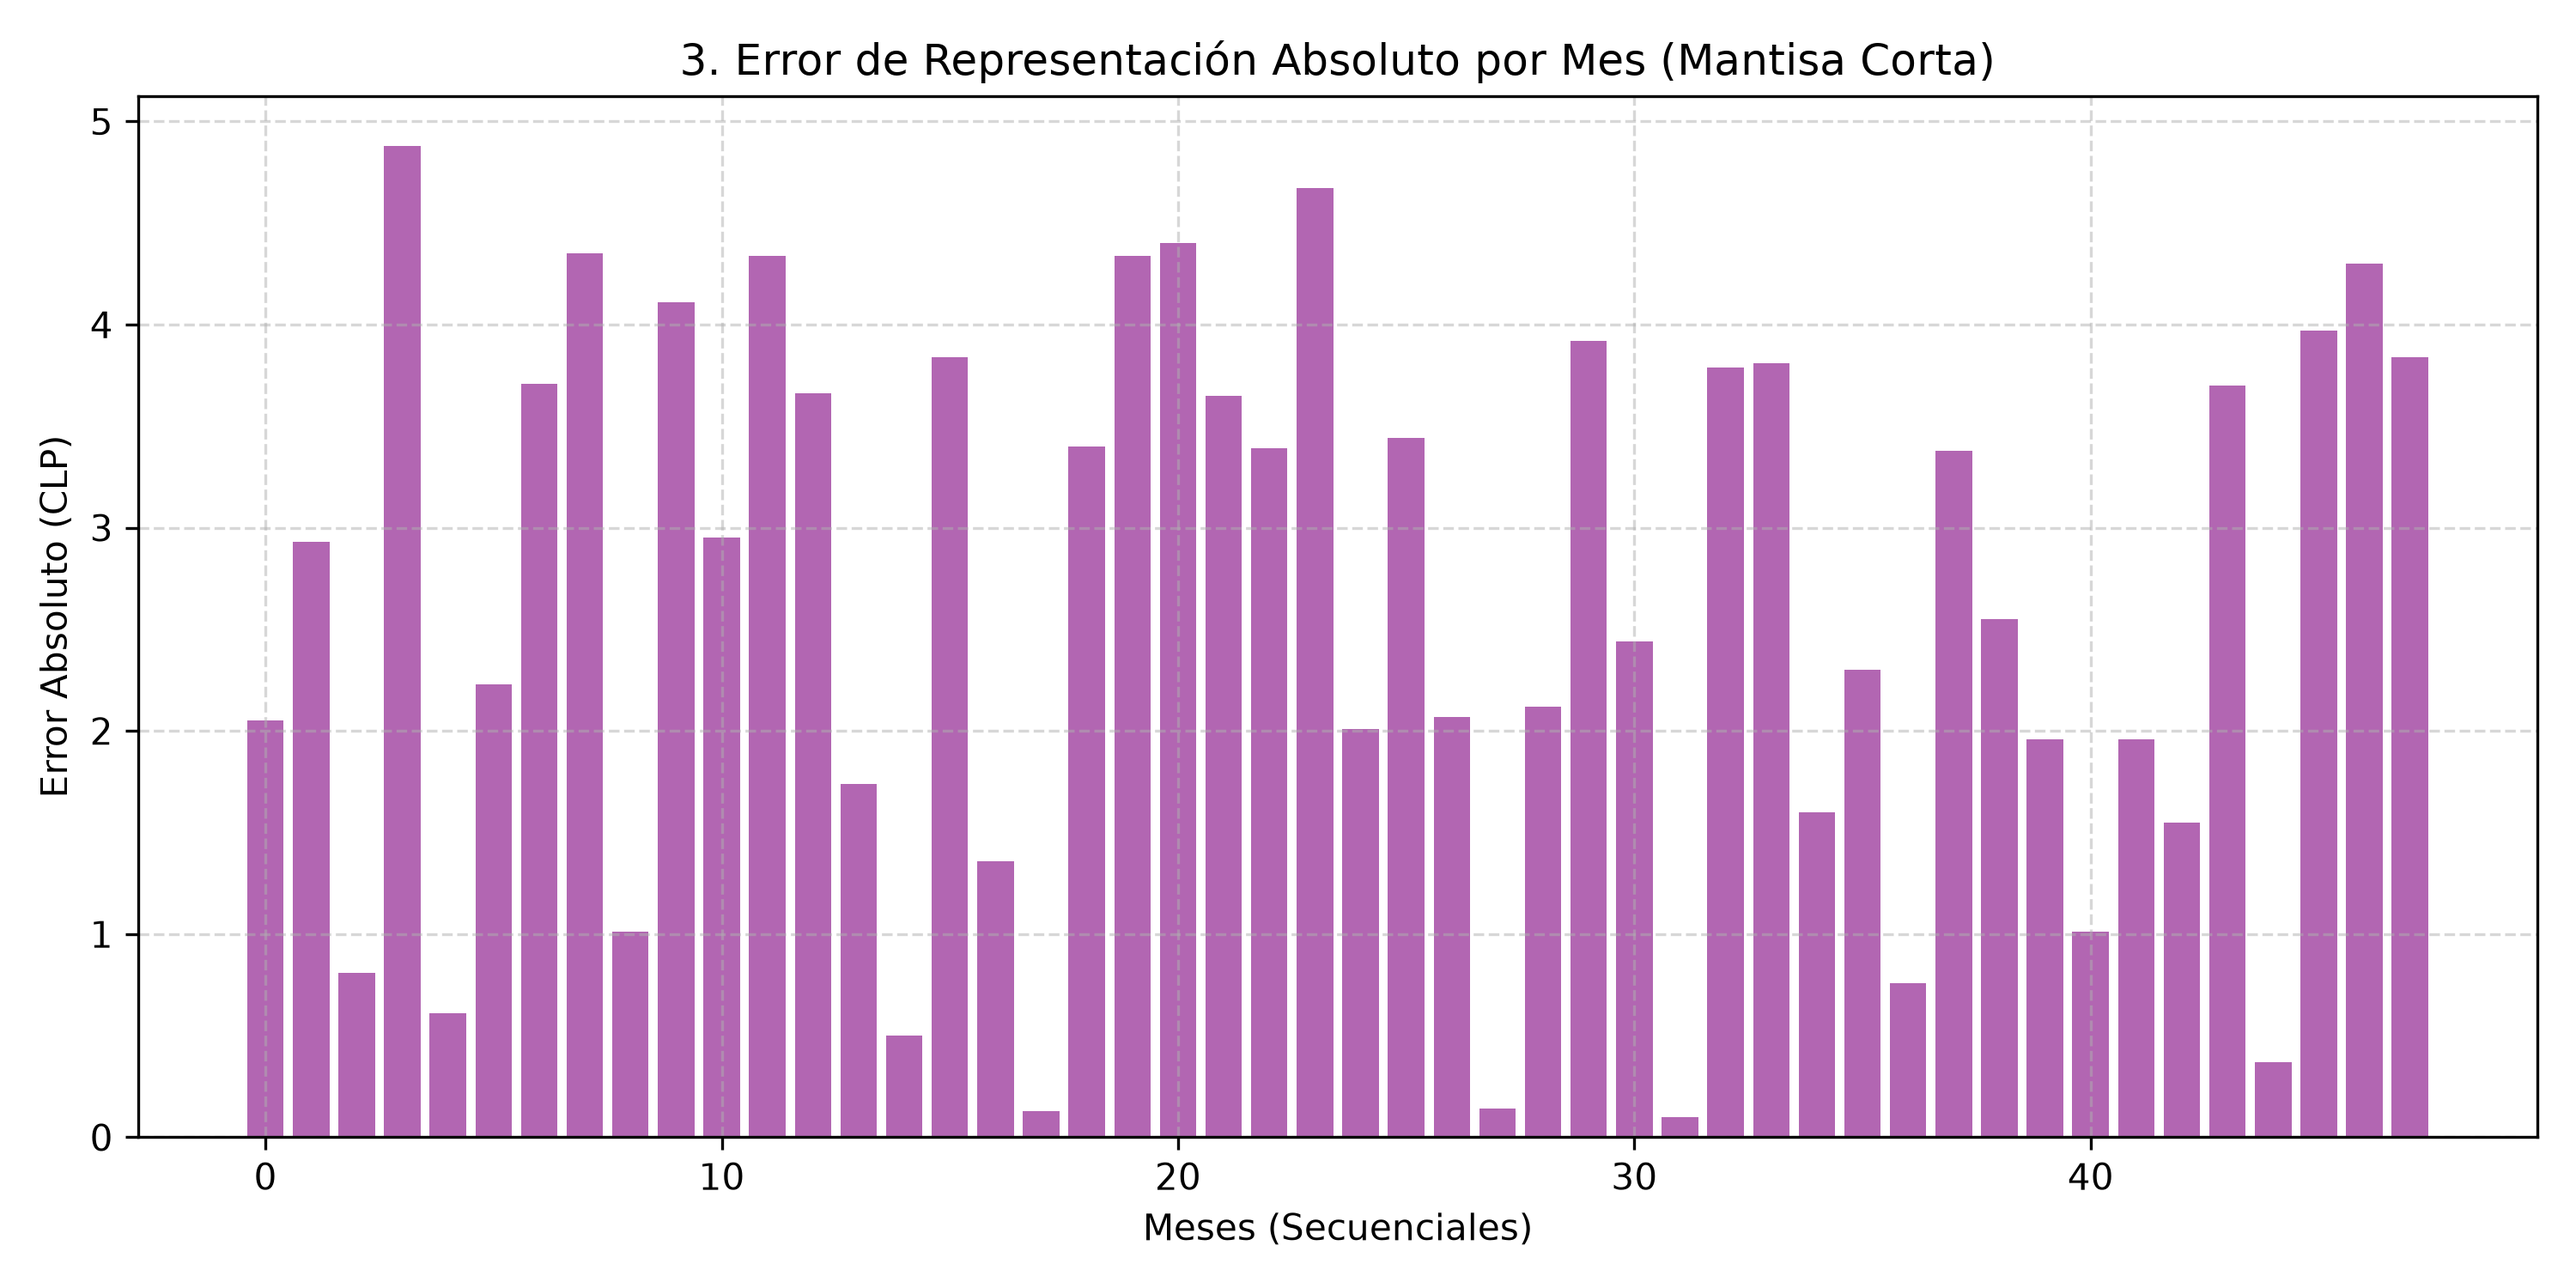
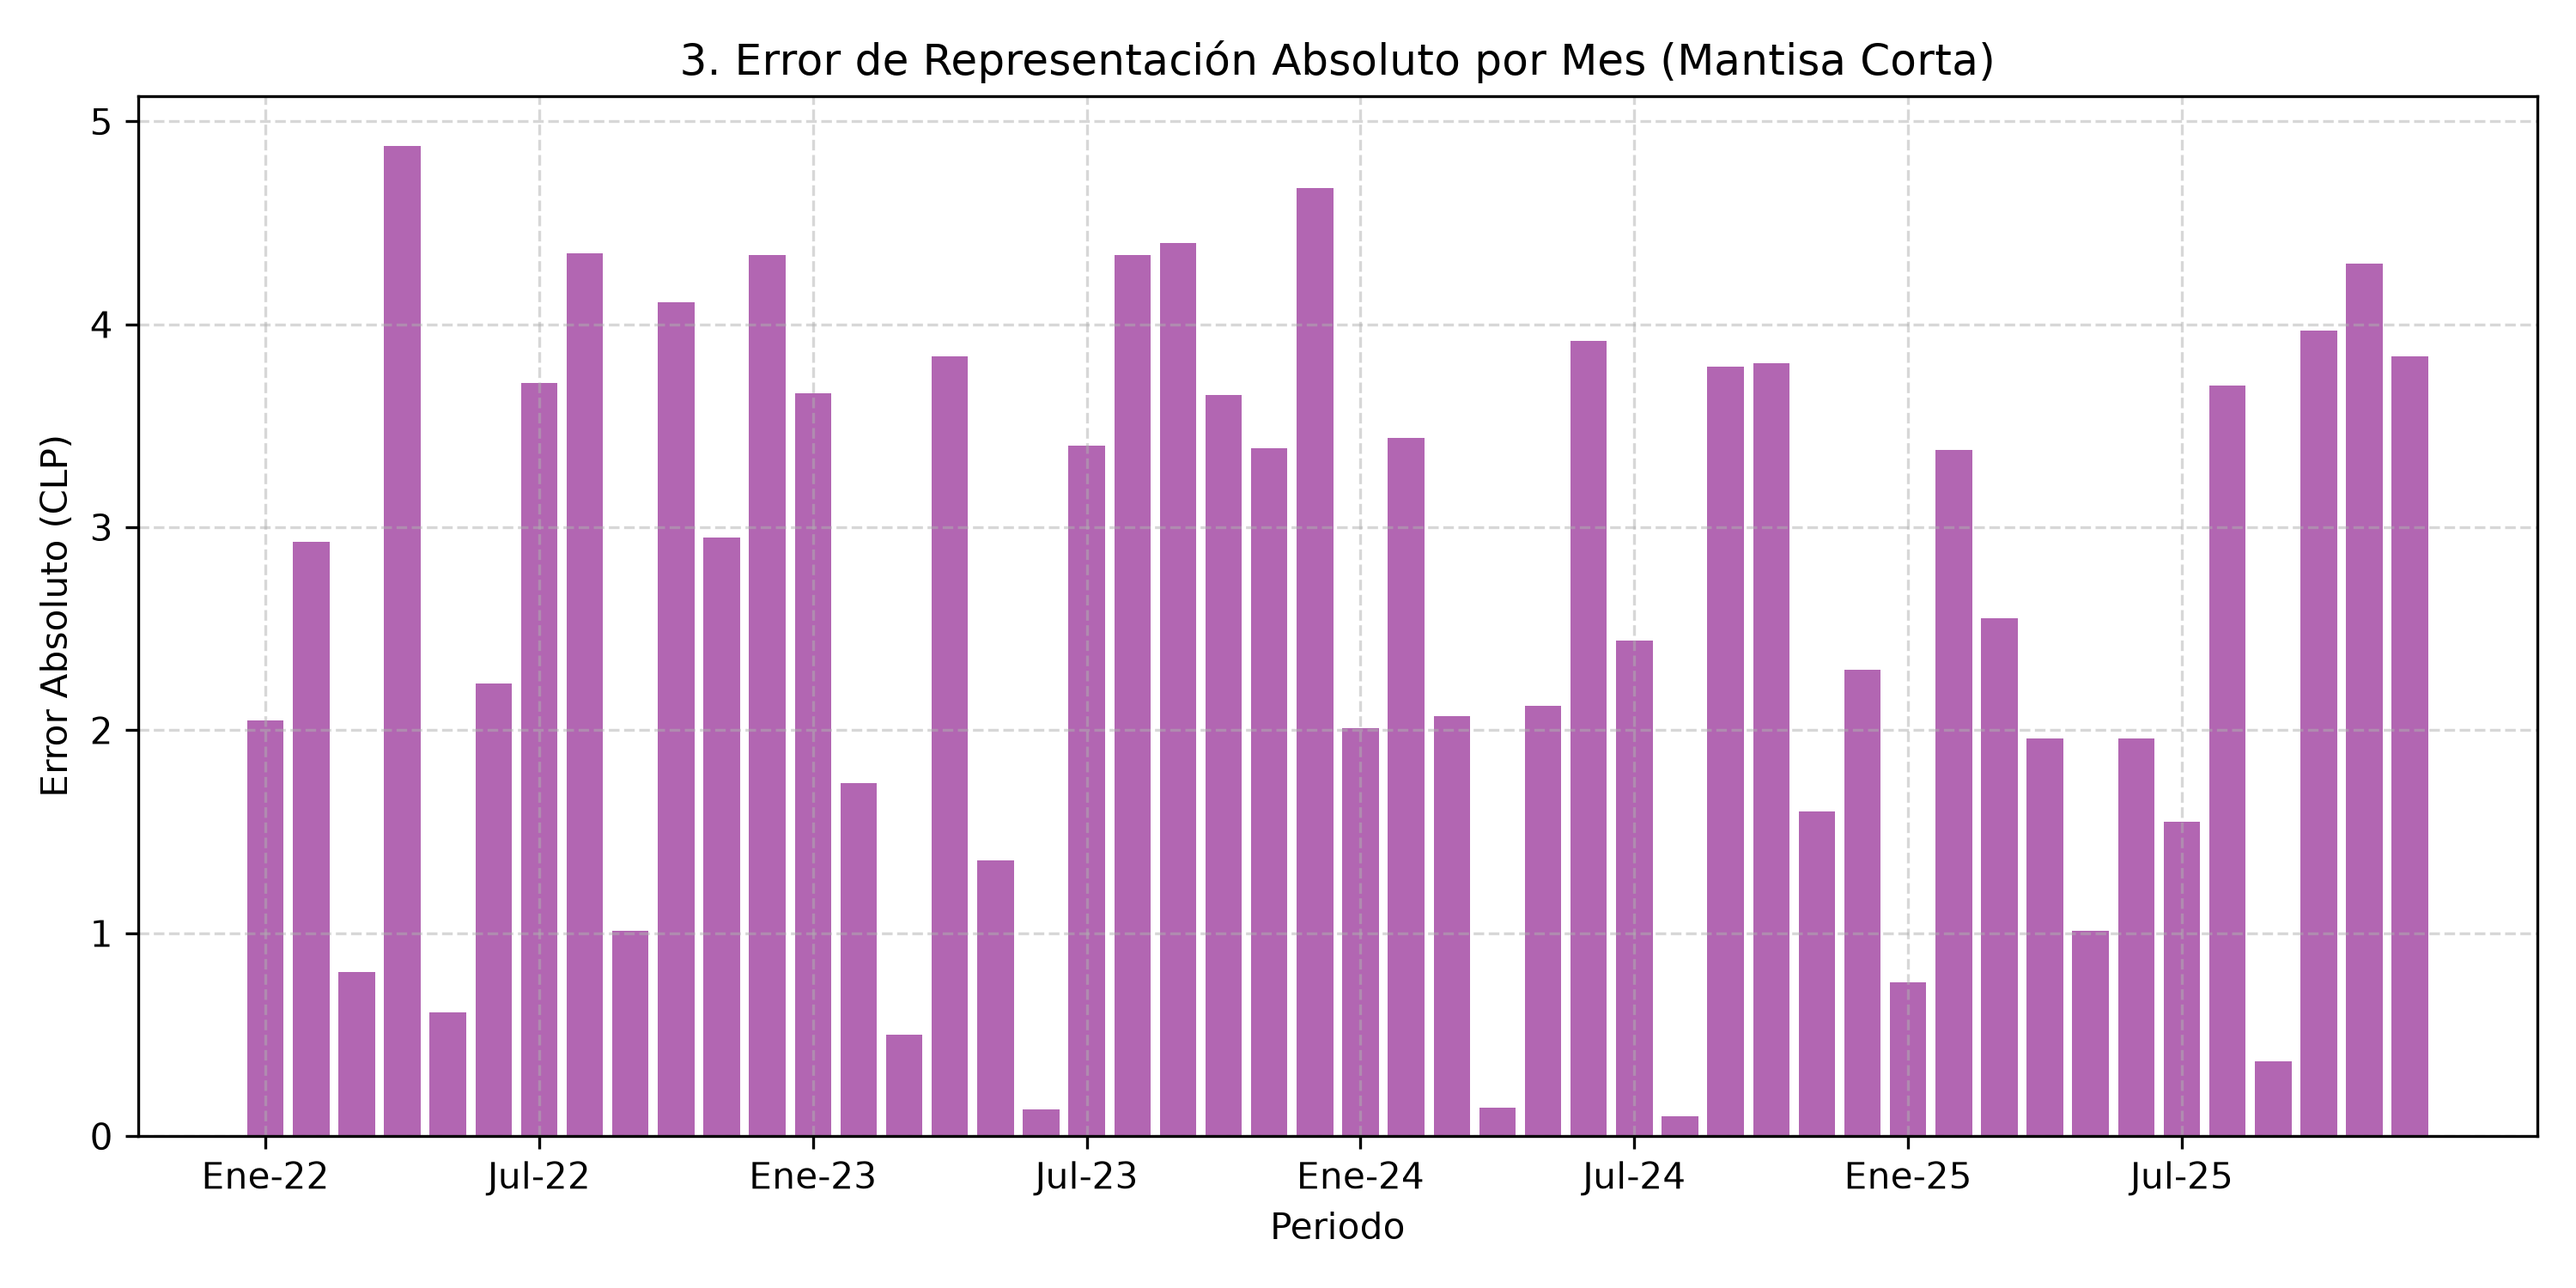
Mejorar graficos y resaltar zona de cancelacion en variacion mensual

diff --git a/src/graficos.py b/src/graficos.py
@@ -1,36 +1,59 @@
+import os
+import sys
 import numpy as np
 import matplotlib.pyplot as plt
+
+sys.path.append(os.path.dirname(os.path.abspath(__file__)))
 from cargar_datos import obtener_datos_sii
 from errores import redondear_dos_cifras
 from punto_flotante import ejercicio_b2_ida_vuelta
+
+ruta_base = os.path.dirname(os.path.dirname(os.path.abspath(__file__)))
+carpeta_graficos = os.path.join(ruta_base, "graficos")
+os.makedirs(carpeta_graficos, exist_ok=True)
 
 anios, nombres_meses, precios = obtener_datos_sii()
 n_total = len(precios)
 eje_temporal = np.arange(n_total)
 
+# Etiquetas de tiempo para los graficos
+etiquetas_tiempo = [f"{nombres_meses[i][:3]}-{str(anios[i])[2:]}" for i in range(n_total)]
+ticks_pos = np.arange(0, n_total, 6)
+ticks_labels = [etiquetas_tiempo[i] for i in ticks_pos]
+
 # GRÁFICO 1: Serie mensual del dólar observado (2022-2025)
 plt.figure(figsize=(10, 5))
 plt.plot(eje_temporal, precios, marker='o', color='b', linestyle='-', linewidth=1.5, markersize=3)
 plt.title('1. Serie Mensual del Dólar Observado (2022-2025)')
-plt.xlabel('Meses (Secuenciales)')
+plt.xlabel('Periodo')
 plt.ylabel('Precio (CLP)')
+plt.xticks(ticks_pos, ticks_labels)
 plt.grid(True, linestyle='--', alpha=0.6)
 plt.tight_layout()
-plt.savefig('graficos/serie_mensual.png', dpi=300)
+plt.savefig(os.path.join(carpeta_graficos, 'serie_mensual.png'), dpi=300)
 plt.close()
 
-# GRÁFICO 2: Variación mes a mes en barras
+# GRÁFICO 2: Variación mes a mes en barras (evidencia de cancelacion)
 delta_mensual = np.diff(precios) # Resta entre mes t+1 y mes t
+precios_aprox = redondear_dos_cifras(precios)
+ea_individual = np.abs(precios - precios_aprox)
+ea_propagado_mensual = ea_individual[:-1] + ea_individual[1:]
+
+# Detectar donde el error domina la variacion (cancelacion)
+es_cancelacion = np.abs(delta_mensual) <= ea_propagado_mensual
+
 plt.figure(figsize=(10, 5))
-colores = np.where(delta_mensual >= 0, 'g', 'r')
-plt.bar(eje_temporal[1:], delta_mensual, color=colores, alpha=0.7)
+colores = np.where(es_cancelacion, 'orange', np.where(delta_mensual >= 0, 'g', 'r'))
+plt.bar(eje_temporal[1:], delta_mensual, color=colores, alpha=0.7, label='Variación ΔP')
+# Linea de umbral promedio de error propagado
 plt.axhline(0, color='black', linewidth=0.8, linestyle='--')
-plt.title('2. Variación Mes a Mes (ΔP) - Evidencia de Cancelación')
-plt.xlabel('Meses (Secuenciales)')
+plt.title('2. Variación Mes a Mes (ΔP) - Naranja: Zona de Cancelación (|ΔP| ≤ Error Propagado)')
+plt.xlabel('Periodo')
 plt.ylabel('ΔP (CLP)')
+plt.xticks(ticks_pos, ticks_labels)
 plt.grid(True, linestyle='--', alpha=0.5)
 plt.tight_layout()
-plt.savefig('graficos/variacion_mes_a_mes.png', dpi=300)
+plt.savefig(os.path.join(carpeta_graficos, 'variacion_mes_a_mes.png'), dpi=300)
 plt.close()
 
 
@@ -40,11 +63,12 @@ error_absoluto = np.abs(precios - precios_aprox)
 plt.figure(figsize=(10, 5))
 plt.bar(eje_temporal, error_absoluto, color='purple', alpha=0.6)
 plt.title('3. Error de Representación Absoluto por Mes (Mantisa Corta)')
-plt.xlabel('Meses (Secuenciales)')
+plt.xlabel('Periodo')
 plt.ylabel('Error Absoluto (CLP)')
+plt.xticks(ticks_pos, ticks_labels)
 plt.grid(True, linestyle='--', alpha=0.5)
 plt.tight_layout()
-plt.savefig('graficos/error_representacion.png', dpi=300)
+plt.savefig(os.path.join(carpeta_graficos, 'error_representacion.png'), dpi=300)
 plt.close()
 
 # GRÁFICO 4: Rentabilidad comprando en el mínimo histórico
@@ -74,11 +98,12 @@ plt.figure(figsize=(10, 5))
 plt.errorbar(eje_temporal, rentabilidades, yerr=errores_rentabilidad, fmt='-o', color='teal', ecolor='salmon', elinewidth=1, capsize=2, markersize=3)
 plt.axhline(0, color='black', linestyle='--', linewidth=0.8)
 plt.title('4. Rentabilidad Comprando en el Mínimo Global (con Error Propagado)')
-plt.xlabel('Meses (Secuenciales)')
+plt.xlabel('Periodo')
 plt.ylabel('Rentabilidad (%)')
+plt.xticks(ticks_pos, ticks_labels)
 plt.grid(True, linestyle='--', alpha=0.5)
 plt.tight_layout()
-plt.savefig('graficos/rentabilidad_minimo.png', dpi=300)
+plt.savefig(os.path.join(carpeta_graficos, 'rentabilidad_minimo.png'), dpi=300)
 plt.close()
 
 # GRÁFICO 5: Deriva de ida y vuelta (float32 vs float64)
@@ -102,10 +127,11 @@ plt.plot(
 )
 plt.axhline(0, color="black", linestyle="--", linewidth=0.8)
 plt.title("5. Deriva de Ida y Vuelta ($M = 1.000.000$ CLP)")
-plt.xlabel("Meses (Secuenciales)")
+plt.xlabel("Periodo")
 plt.ylabel("Deriva / Error residual (CLP)")
+plt.xticks(ticks_pos, ticks_labels)
 plt.legend()
 plt.grid(True, linestyle="--", alpha=0.6)
 plt.tight_layout()
-plt.savefig("graficos/deriva_ida_vuelta.png", dpi=300)
+plt.savefig(os.path.join(carpeta_graficos, "deriva_ida_vuelta.png"), dpi=300)
 plt.close()
